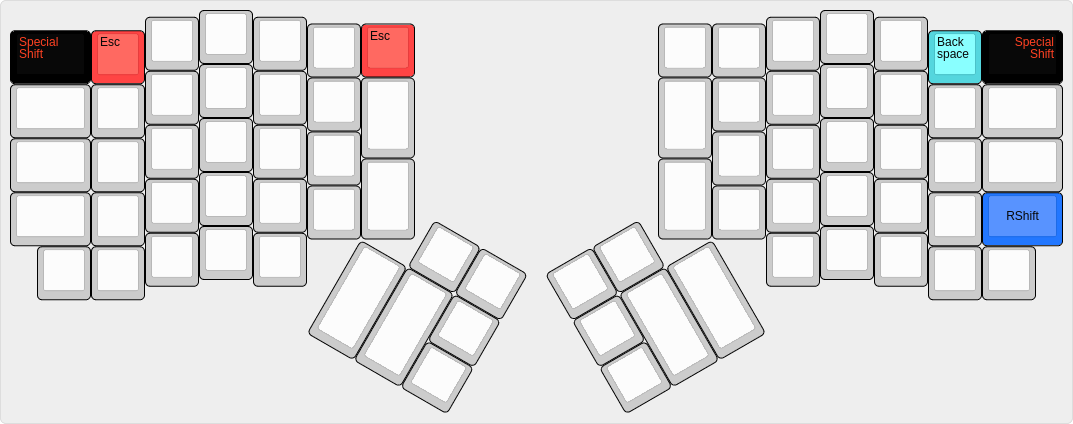
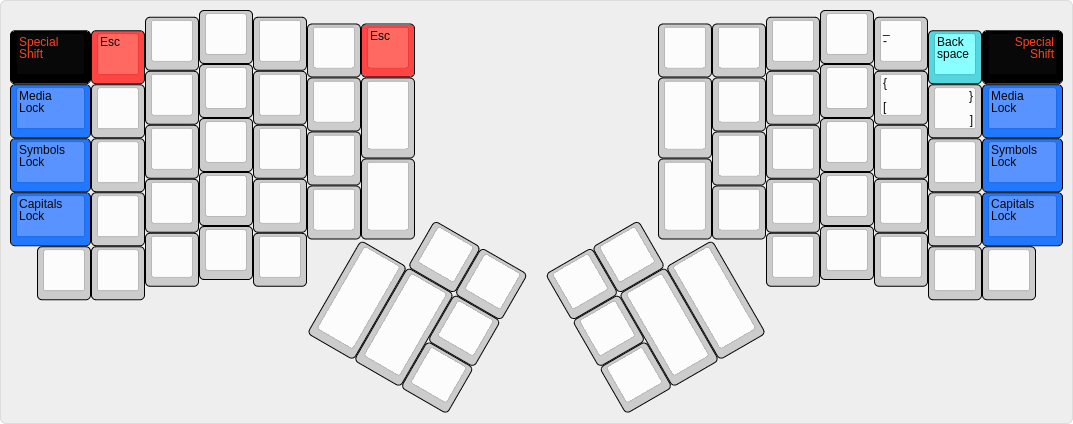
The Ordinary Layout is now even better with improved shift locking

Changed region(s): [[0.8919, 0.184, 1.0, 0.5212], [0.0, 0.184, 0.0923, 0.5825]]

diff --git a/keyboards/ergodox_ez/keymaps/ordinary/keymap.c b/keyboards/ergodox_ez/keymaps/ordinary/keymap.c
@@ -3,7 +3,6 @@
 #include "debug.h"
 #include "action_layer.h"
 #include "action_util.h"
-#include "mousekey.h"
 
 #define BASE   0 // default layer
 #define SYMB   1 // symbols layer
@@ -26,12 +25,12 @@
 
 /*
  * The Ordinary Layout for the Ergodox EZ keyboard, v4
- * 
+ *
  * Modifications from default by Nicholas Keene ergodoxez@nicholaskeene.com
  *
  * No rights reserved. This software is in the public domain.
  * Credit me if you are friendly but if you're a jerk don't bother.
- * 
+ *
  * Details: readme.md
  *          https://github.com/nrrkeene/qmk_firmware/tree/master/keyboard/ergodox_ez/keymaps/ordinary
  */
@@ -64,7 +63,7 @@ const uint16_t PROGMEM keymaps[][MATRIX_ROWS][MATRIX_COLS] = {
  F(LSpec),KC_1,KC_2,KC_3   ,KC_4  ,KC_5  ,KC_ESC
 ,F(LMdia)  ,KC_Q   ,KC_W   ,KC_E   ,KC_R  ,KC_T  ,KC_LBRC
 ,M(LSymb)  ,KC_A   ,KC_S   ,KC_D   ,KC_F  ,KC_G
-,M(LCaps)  ,KC_Z   ,KC_X   ,KC_C   ,KC_V  ,KC_B  ,LSFT(KC_TAB)
+,KC_LSFT   ,KC_Z   ,KC_X   ,KC_C   ,KC_V  ,KC_B  ,LSFT(KC_TAB)
 ,KC_LCTL   ,KC_MEH ,KC_HYPR,KC_LALT,KC_LGUI
                                          ,KC_HOME,KC_END
                                                  ,KC_PGUP
@@ -73,7 +72,7 @@ const uint16_t PROGMEM keymaps[][MATRIX_ROWS][MATRIX_COLS] = {
                                                                      ,KC_MINS ,KC_6   ,KC_7   ,KC_8   ,KC_9    ,KC_0     ,F(RSpec)
                                                                      ,KC_RBRC ,KC_Y   ,KC_U   ,KC_I   ,KC_O    ,KC_P     ,F(RMdia)
                                                                               ,KC_H   ,KC_J   ,KC_K   ,KC_L    ,KC_SCLN  ,F(RSymb)
-                                                                     ,KC_TAB  ,KC_N   ,KC_M   ,KC_COMM,KC_DOT  ,KC_SLSH  ,M(RCaps)
+                                                                     ,KC_TAB  ,KC_N   ,KC_M   ,KC_COMM,KC_DOT  ,KC_SLSH  ,KC_RSFT
                                                                                       ,KC_RGUI,KC_RALT,KC_HYPR ,KC_MEH   ,KC_RCTL
                                                                      ,KC_LEFT ,KC_RGHT
                                                                      ,KC_UP
@@ -105,7 +104,7 @@ const uint16_t PROGMEM keymaps[][MATRIX_ROWS][MATRIX_COLS] = {
 // left hand
  KC_TRNS ,KC_F1   ,KC_F2   ,KC_F3   ,KC_F4   ,KC_F5   ,KC_ESC
 ,KC_TRNS ,KC_EXLM ,KC_AT   ,KC_LCBR ,KC_RCBR ,KC_AMPR ,LSFT(KC_COMM)
-,KC_TRNS ,KC_HASH ,KC_DLR  ,KC_LPRN ,KC_RPRN ,KC_GRV 
+,KC_TRNS ,KC_HASH ,KC_DLR  ,KC_LPRN ,KC_RPRN ,KC_GRV
 ,KC_TRNS ,KC_PERC ,KC_CIRC ,KC_LBRC ,KC_RBRC ,KC_TILD ,KC_TAB
 ,KC_LCTL   ,KC_MEH ,KC_HYPR,KC_LALT ,KC_LGUI
                                              ,KC_LEFT ,KC_RGHT
@@ -166,17 +165,17 @@ const uint16_t PROGMEM keymaps[][MATRIX_ROWS][MATRIX_COLS] = {
 
 /******* Special Layer *****************************************************************************************************
  *
- * ,-----------------------------------------------------.           ,-----------------------------------------------------.
- * |           |  Esc |      |      |      |      |      |           |      |      |      |      |      | Bspc |           |
- * |-----------+------+------+------+------+-------------|           |------+------+------+------+------+------+-----------|
- * |           |      |      |      |      |      |      |           |      |      |      |      |      |      |           |
- * |-----------+------+------+------+------+------|      |           |      |------+------+------+------+------+-----------|
- * |           |      |      |      |      |      |------|           |------|      |      |      |      |      |           |
- * |-----------+------+------+------+------+------|      |           |      |------+------+------+------+------+-----------|
- * |           |      |      |      |      |      |      |           |      |      |      |      |      |      | RShift    |
- * `-----------+------+------+------+------+-------------'           `-------------+------+------+------+------+-----------'
- *      |      |      |      |      |      |                                       |      |      |      |      |      |
- *      `----------------------------------'                                       `----------------------------------'
+ * ,-------------------------------------------------------.           ,-------------------------------------------------------.
+ * |             |  Esc |      |      |      |      |      |           |      |      |      |      |   -  | Bspc |             |
+ * |-------------+------+------+------+------+-------------|           |------+------+------+------+------+------+-------------|
+ * | Media Lock  |      |      |      |      |      |      |           |      |      |      |      |      |      | Media Lock  |
+ * |-------------+------+------+------+------+------|      |           |      |------+------+------+------+------+-------------|
+ * | Symbol Lock |      |      |      |      |      |------|           |------|      |      |      |      |      | Symbol Lock |
+ * |-------------+------+------+------+------+------|      |           |      |------+------+------+------+------+-------------|
+ * | Caps Lock   |      |      |      |      |      |      |           |      |      |      |      |      |      | Caps Lock   |
+ * `-------------+------+------+------+------+-------------'           `-------------+------+------+------+------+-------------'
+ *      |        |      |      |      |      |                                       |      |      |      |      |        |
+ *      `------------------------------------'                                       `------------------------------------'
  *                                         ,-------------.           ,-------------.
  *                                         |      |      |           |      |      |
  *                                  ,------|------|------|           |------+------+------.
@@ -190,17 +189,17 @@ const uint16_t PROGMEM keymaps[][MATRIX_ROWS][MATRIX_COLS] = {
  KC_TRNS ,KC_ESC  ,KC_TRNS ,KC_TRNS ,KC_TRNS ,KC_TRNS ,KC_TRNS
 ,KC_TRNS ,KC_TRNS ,KC_TRNS ,KC_TRNS ,KC_TRNS ,KC_TRNS ,KC_TRNS
 ,KC_TRNS ,KC_TRNS ,KC_TRNS ,KC_TRNS ,KC_TRNS ,KC_TRNS
-,KC_TRNS ,KC_TRNS ,KC_TRNS ,KC_TRNS ,KC_TRNS ,KC_TRNS ,KC_TRNS
+,KC_CAPS ,KC_TRNS ,KC_TRNS ,KC_TRNS ,KC_TRNS ,KC_TRNS ,KC_TRNS
 ,KC_TRNS ,KC_TRNS ,KC_TRNS ,KC_TRNS ,KC_TRNS
 
                                              ,KC_TRNS ,KC_TRNS
                                                       ,KC_TRNS
                                      ,KC_TRNS,KC_TRNS ,KC_TRNS
                                                                      // right hand
-                                                                     ,KC_TRNS ,KC_TRNS ,KC_TRNS ,KC_TRNS ,KC_TRNS ,KC_BSPC ,KC_TRNS
+                                                                     ,KC_TRNS ,KC_TRNS ,KC_TRNS ,KC_TRNS ,KC_MINS ,KC_BSPC ,KC_TRNS
                                                                      ,KC_TRNS ,KC_TRNS ,KC_TRNS ,KC_TRNS ,KC_TRNS ,KC_TRNS ,KC_TRNS
                                                                               ,KC_TRNS ,KC_TRNS ,KC_TRNS ,KC_TRNS ,KC_TRNS ,KC_TRNS
-                                                                     ,KC_TRNS ,KC_TRNS ,KC_TRNS ,KC_TRNS ,KC_TRNS ,KC_TRNS ,KC_RSFT
+                                                                     ,KC_TRNS ,KC_TRNS ,KC_TRNS ,KC_TRNS ,KC_TRNS ,KC_TRNS ,KC_CAPS
                                                                                        ,KC_TRNS ,KC_TRNS ,KC_TRNS ,KC_TRNS ,KC_TRNS
 
                                                                      ,KC_TRNS ,KC_TRNS
@@ -211,22 +210,20 @@ const uint16_t PROGMEM keymaps[][MATRIX_ROWS][MATRIX_COLS] = {
 
 const uint16_t PROGMEM fn_actions[] = {
      // the faux shift keys are implemented as macro taps
-     [LCaps] = ACTION_MACRO_TAP(LCaps)
-    ,[LSymb] = ACTION_MACRO_TAP(LSymb)
+     [LSymb] = ACTION_MACRO_TAP(LSymb)
     ,[LMdia] = ACTION_MACRO_TAP(LMdia)
     ,[LSpec] = ACTION_MACRO_TAP(LSpec)
-    ,[RCaps] = ACTION_MACRO_TAP(RCaps)
     ,[RSymb] = ACTION_MACRO_TAP(RSymb)
     ,[RMdia] = ACTION_MACRO_TAP(RMdia)
     ,[RSpec] = ACTION_MACRO_TAP(RSpec)
 };
 
-uint16_t caps_shift = 0;
 uint16_t symb_shift = 0;
 uint16_t mdia_shift = 0;
+uint16_t spec_shift = 0;
 
-bool symb_lock = false;
 bool mdia_lock = false;
+bool symb_lock = false;
 
 const macro_t *action_get_macro(keyrecord_t *record, uint8_t id, uint8_t opt)
 {
@@ -237,50 +234,28 @@ const macro_t *action_get_macro(keyrecord_t *record, uint8_t id, uint8_t opt)
         // only because sometimes rapid pressing led to irregular events; this way the states
         // are self healing during use.
 
-        case LCaps: // both caps-shift keys trigger Left Shift
-        case RCaps: // so they don't interfere with the magic combo
-        if (record->event.pressed && !record->tap.count) {
-            if(++caps_shift > 2) caps_shift = 2;
-            if(caps_shift == 2)  {
-                register_code(KC_CAPS);
-                unregister_code(KC_CAPS);
-            } else if(caps_shift == 1) {
-                register_code(KC_LSFT);
-            }
-        } else {
-            if(--caps_shift < 0) caps_shift = 0;
-            if(caps_shift == 0) unregister_code(KC_LSFT);
-        }
-        break;
-
-        case LSymb:
-        if (record->event.pressed) {
-            if(++symb_shift > 2) symb_shift = 2;
-            if(symb_shift == 2)  {
-                symb_lock = !symb_lock;
-            } else if(symb_shift == 1) {
-                layer_on(SYMB);
-            }
-        } else {
-            if(--symb_shift < 0) symb_shift = 0;
-            if((symb_shift == 0) && (!symb_lock)) layer_off(SYMB);
+        case LSymb:                                               //
+        if (record->event.pressed) {                              // when the LSymb button is pressed
+            if(++symb_shift > 2) mdia_shift = 2;                  // increment the symb shift count, max two
+            if(spec_shift) symb_lock = !symb_lock;                // if the Special layer is on, toggle the shift lock
+            layer_on(SYMB);                                       // in any case, turn on the Symbols layer
+        } else {                                                  // when the LSymb button is released
+            if(--symb_shift < 0) symb_shift = 0;                  // decrement the shift count, minimum zero
+            if((!symb_shift) && (!symb_lock)) layer_off(SYMB);    // if both shifts are released and the lock is off, turn off the Symbols layer
         }
         break;
 
         case LMdia:
         if (record->event.pressed) {
-            if (record->tap.count && (!mdia_shift) && (!mdia_lock)) {
+           if (record->tap.count && (!mdia_shift) && (!mdia_lock) && (!spec_shift)) {
                 register_code(KC_TAB);
             } else {
+                if(spec_shift) mdia_lock = !mdia_lock;
                 if(++mdia_shift > 2) mdia_shift = 2;
-                if(mdia_shift == 2)  {
-                    mdia_lock = !mdia_lock;
-                } else if(mdia_shift == 1) {
-                    layer_on(MDIA);
-                }
+                layer_on(MDIA);
             }
         } else {
-            if(record->tap.count && (!mdia_shift) && (!mdia_lock)) {
+            if(record->tap.count && (!mdia_shift) && (!mdia_lock) && (!spec_shift)) {
                 unregister_code(KC_TAB);
             } else {
                 if(--mdia_shift < 0) mdia_shift = 0;
@@ -290,35 +265,37 @@ const macro_t *action_get_macro(keyrecord_t *record, uint8_t id, uint8_t opt)
         break;
 
         case LSpec:
-        if (record->event.pressed) {
-            if (record->tap.count && !record->tap.interrupted) {
-                register_code(KC_GRV);
+        if (record->event.pressed) {                                     // when the LSpec button is pressed
+            if((keyboard_report->mods & MOD_BIT(KC_LSFT)) || (keyboard_report->mods & MOD_BIT(KC_RSFT))) { register_code(KC_CAPS); unregister_code(KC_CAPS); }
+            else if(symb_shift) symb_lock == !symb_lock;                 // if another layer button is engaged, then
+            else if(mdia_shift) mdia_lock = !mdia_lock;                  // lock that layer, be it caps or symb or mdia
+            else if (record->tap.count && !record->tap.interrupted && (!spec_shift)) {
+                register_code(KC_GRV);                                   // otherwise, if it's an uninterrupted tap, emit a char
             } else {
-                layer_on(SPEC);
+                if(++spec_shift > 2) spec_shift = 2;
+                layer_on(SPEC);                                          // otherwise, turn on the Special layer
             }
         } else {
-            if(record->tap.count && !record->tap.interrupted) {
+            if(record->tap.count && !record->tap.interrupted && (!spec_shift)) {
                 unregister_code(KC_GRV);
             } else {
-                layer_off(SPEC);
+                if(--spec_shift < 0) spec_shift = 0;
+                if(!spec_shift) layer_off(SPEC);
             }
         }
         break;
 
         case RSymb:
         if (record->event.pressed) {
-            if (record->tap.count && (!symb_shift) && (!symb_lock)) {
+            if (record->tap.count && (!symb_shift) && (!symb_lock) && (!spec_shift)) {
                 register_code(KC_QUOT);
             } else {
                 if(++symb_shift > 2) symb_shift = 2;
-                if(symb_shift == 2)  {
-                    symb_lock = !symb_lock;
-                } else if(symb_shift == 1) {
-                    layer_on(SYMB);
-                }
+                if(spec_shift) symb_lock = !symb_lock;
+                layer_on(SYMB);
             }
         } else {
-            if(record->tap.count && symb_shift == 0) {
+            if(record->tap.count && (!symb_shift) && (!symb_lock) && (!spec_shift)) {
                 unregister_code(KC_QUOT);
             } else {
                 if(--symb_shift < 0) symb_shift = 0;
@@ -329,18 +306,15 @@ const macro_t *action_get_macro(keyrecord_t *record, uint8_t id, uint8_t opt)
 
         case RMdia:
         if (record->event.pressed) {
-            if (record->tap.count && (!mdia_shift) && (!mdia_lock)) {
+            if (record->tap.count && (!mdia_shift) && (!mdia_lock) && (!spec_shift)) {
                 register_code(KC_BSLS);
             } else {
                 if(++mdia_shift > 2) mdia_shift = 2;
-                if(mdia_shift == 2)  {
-                    mdia_lock = !mdia_lock;
-                } else if(mdia_shift == 1) {
-                    layer_on(MDIA);
-                }
+                if(spec_shift) mdia_lock = !mdia_lock;
+                layer_on(MDIA);
             }
         } else {
-            if(record->tap.count && (!mdia_shift) && (!mdia_lock)) {
+            if(record->tap.count && (!mdia_shift) && (!mdia_lock) && (!spec_shift)) {
                 unregister_code(KC_BSLS);
             } else {
                 if(--mdia_shift < 0) mdia_shift = 0;
@@ -351,16 +325,21 @@ const macro_t *action_get_macro(keyrecord_t *record, uint8_t id, uint8_t opt)
 
         case RSpec:
         if (record->event.pressed) {
-            if (record->tap.count && !record->tap.interrupted) {
+            if((keyboard_report->mods & MOD_BIT(KC_LSFT)) || (keyboard_report->mods & MOD_BIT(KC_RSFT))) { register_code(KC_CAPS); unregister_code(KC_CAPS); }
+            else if(symb_shift) symb_lock = !symb_lock;
+            else if(mdia_shift) mdia_lock = !mdia_lock;
+            else if (record->tap.count && !record->tap.interrupted && (!spec_shift)) {
                 register_code(KC_EQL);
             } else {
+                if(++spec_shift > 2) spec_shift = 2;
                 layer_on(SPEC);
             }
         } else {
-            if(record->tap.count && !record->tap.interrupted) {
+            if(record->tap.count && !record->tap.interrupted && (!spec_shift)) {
                 unregister_code(KC_EQL);
             } else {
-                layer_off(SPEC);
+                if(--spec_shift < 0) spec_shift = 0;
+                if(!spec_shift) layer_off(SPEC);
             }
         }
         break;
@@ -419,7 +398,7 @@ const macro_t *action_get_macro(keyrecord_t *record, uint8_t id, uint8_t opt)
             // none
             break;
     }
-    
+
     return MACRO_NONE;
 };
 
@@ -431,7 +410,9 @@ void matrix_init_user(void) {
 // Runs constantly in the background, in a loop.
 void matrix_scan_user(void) {
     // shift or caps lock turns on red light
-    if(caps_shift || (keyboard_report->mods & MOD_BIT(KC_RSFT)) || (host_keyboard_leds() & (1<<USB_LED_CAPS_LOCK))) {
+    if((keyboard_report->mods & MOD_BIT(KC_LSFT))
+    || (keyboard_report->mods & MOD_BIT(KC_RSFT))
+    || (host_keyboard_leds() & (1<<USB_LED_CAPS_LOCK))) {
         ergodox_right_led_1_on();
     } else {
         ergodox_right_led_1_off();
@@ -451,4 +432,3 @@ void matrix_scan_user(void) {
         ergodox_right_led_3_off();
     }
 };
-
